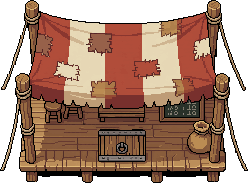
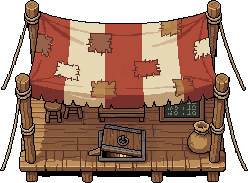
Arena booth: trapdoor propped ajar, and the bookie writes in his ledger
The booth's trapdoor is redrawn standing slightly open on a wedge, with lantern
light showing under it. In the cellar the bookie stands at his desk and writes
in his ledger (a PixelLab animation, tools/bookie_work_anim.py).

Claude-Session: https://claude.ai/code/session_0189XXahkdXKY6tUGRLgLgwY

Changed region(s): [[0.3387, 0.6557, 0.5927, 0.8743]]

diff --git a/game/js/arena-booth.js b/game/js/arena-booth.js
@@ -61,6 +61,18 @@
     'Two hundred bets today, and every one written twice: once in the ledger, once on the board. If they ever disagree, the ledger wins. Always.',
     'Quiet down here. I can hear myself count. Upstairs I can only hear the gong.'
   ];
+  // The bookie at his desk, writing in the ledger (tools/bookie_work_anim.py: nine 64x64 frames, his feet at 32, 60):
+  // he lifts the quill, writes three lines and puts it down, then stands over the page a moment before the next.
+  const WORK = new Image(); WORK.src = 'assets/img/arc/c-v4-work.webp';
+  const STEPS = [0, 1, 2, 3, 4, 5, 6, 7, 4, 5, 6, 7, 4, 5, 6, 7, 8], FPS = 7, REST = 1.6;
+  function working(ctx, x, y, ts, t) {
+    const k = ts / 32, px = x + ts * 0.4, cycle = STEPS.length / FPS + REST, u = t % cycle;
+    ctx.fillStyle = 'rgba(43,35,64,0.22)';
+    ctx.beginPath(); ctx.ellipse(px, y - ts * 0.05, ts * 0.32, ts * 0.11, 0, 0, Math.PI * 2); ctx.fill();
+    if (!WORK.complete || !WORK.naturalWidth) return;
+    const f = u < STEPS.length / FPS ? STEPS[Math.floor(u * FPS)] : 0;
+    ctx.drawImage(WORK, f * 64, 0, 64, 64, px - 32 * k, y - 60 * k, 64 * k, 64 * k);
+  }
   const turn = {};
   async function talk(id) {
     for (const f of NR.onTalk || []) if (await f('arena', id)) return;
@@ -80,6 +92,8 @@
     // Clear of the way from the ladder to everyone, and off the bed, the table and the desk.
     spots: { v4: [7, 4, 'east'], v1: [4, 4, 'south'], v2: [3, 6, 'east'], v3: [7, 6, 'west'] },
     names: { v1: 'FAN', v2: 'FAN', v3: 'FAN', v4: 'BOOKIE' },
+    // Drawn a little east of his tile, so his hands reach the desk.
+    looks: { v4: { draw: working, tall: 51 } },
     lights: [{ x: 4.5, y: 2.1, r: 2.6 }, { x: 7.9, y: 2.1, r: 2.6 }, { x: 1.4, y: 4.4, r: 2 }, { x: 10.7, y: 4.4, r: 2 }],
     props: [
       { x: 5, y: 3, t: () => ['The odds board, in chalk. Every hero has a number next to them. Next to KYU, someone has written "NO BETS" and underlined it twice.'] },

diff --git a/game/tools/bookie_work_anim.py b/game/tools/bookie_work_anim.py
@@ -1,0 +1,18 @@
+"""The bookie writing in his ledger, for his desk in the cellar under his booth at the arena (js/arena-booth.js).
+
+usage: bookie_work_anim.py FRAMES_DIR   (FRAMES_DIR: /mnt/project-files/arena-booth-raw/bookie/a7)
+FRAMES_DIR holds f0.png-f8.png, a PixelLab animate-with-text-v3 loop (seed 7, 64x64, transparent) made from the
+bookie's east-facing standing frame (assets/img/village/c-v4.webp, row 2, column 0) pasted with its feet on y 60,
+x centred on 32: he lifts a quill, writes and puts it down. Writes assets/img/arc/c-v4-work.webp, the nine frames
+side by side.
+"""
+import os, sys
+from PIL import Image
+
+SRC = sys.argv[1]
+HERE = os.path.dirname(os.path.dirname(os.path.abspath(__file__)))
+frames = [Image.open(os.path.join(SRC, 'f%d.png' % i)).convert('RGBA') for i in range(9)]
+strip = Image.new('RGBA', (64 * len(frames), 64))
+for i, f in enumerate(frames): strip.paste(f, (i * 64, 0))
+strip.save(os.path.join(HERE, 'assets/img/arc/c-v4-work.webp'), lossless=True, quality=100, method=6)
+print('wrote c-v4-work.webp,', len(frames), 'frames of 64x64')
